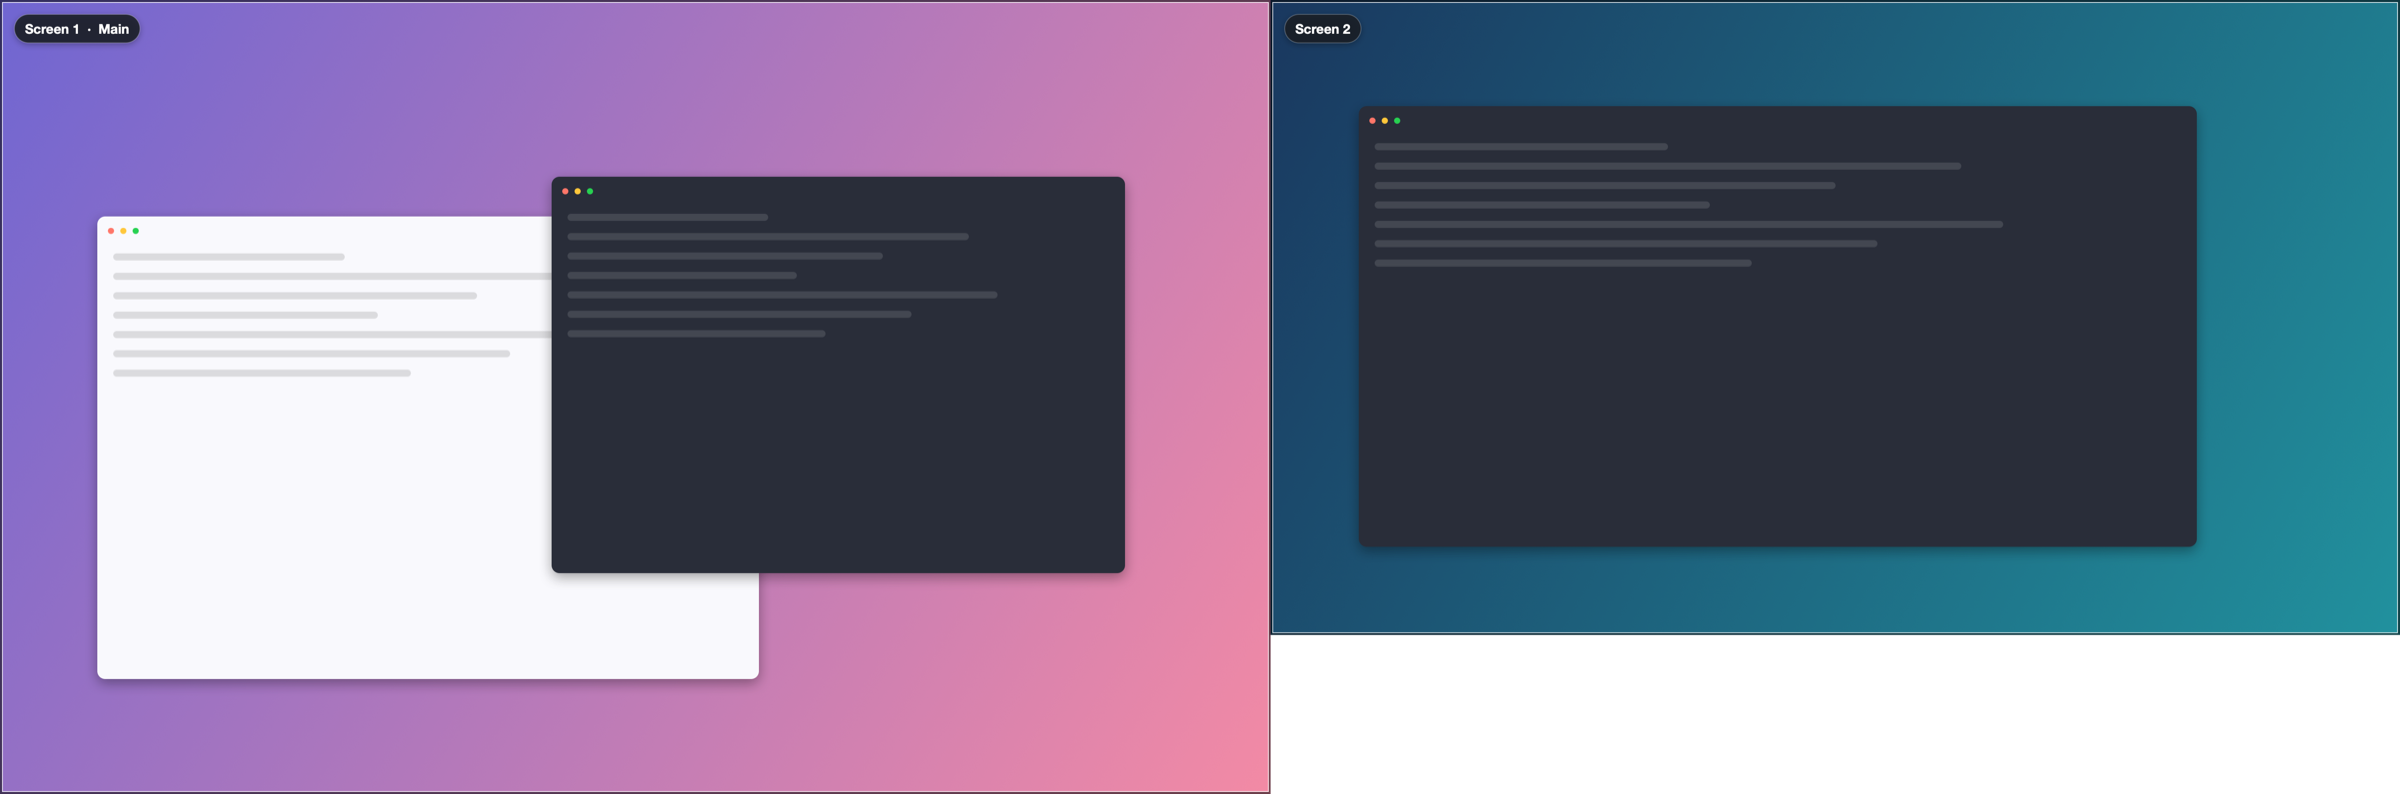
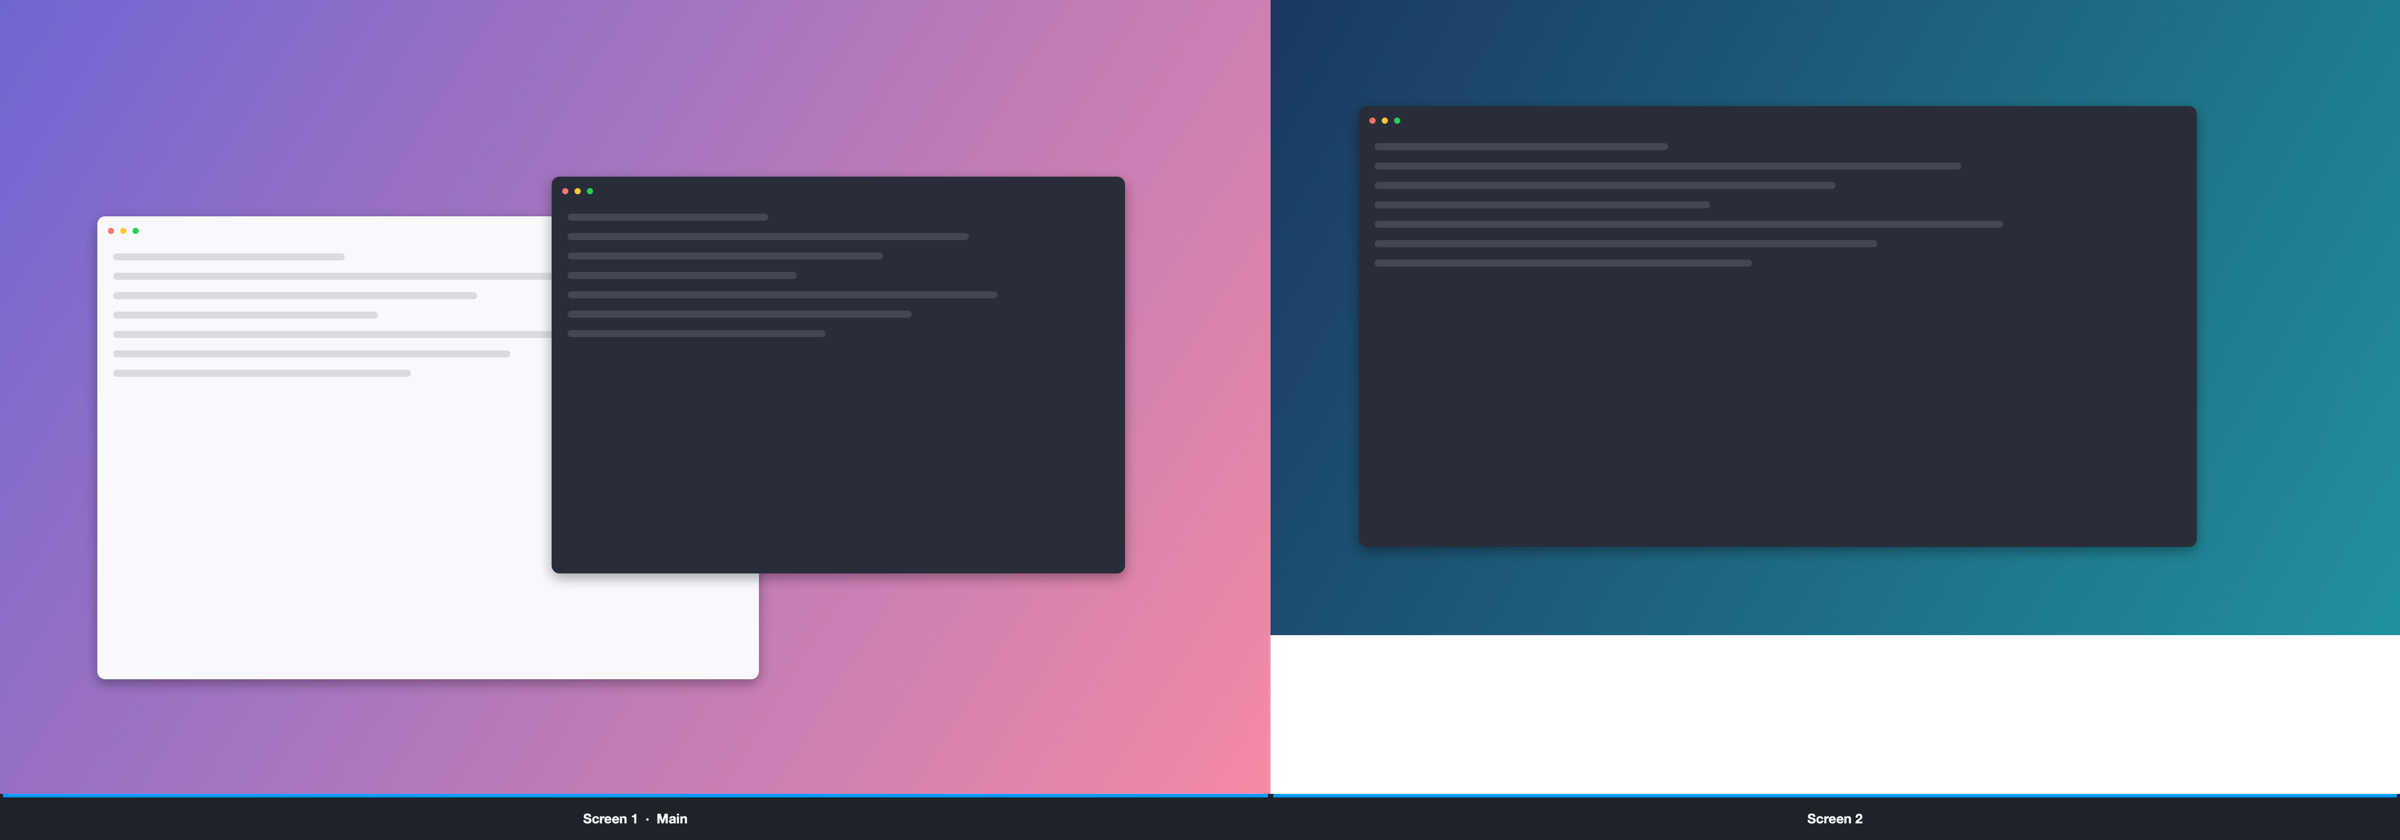
Put multi display labels in a caption strip under the picture instead of on the screenshots

diff --git a/Sources/CaptureEngine/AllDisplaysCaptureMode.swift b/Sources/CaptureEngine/AllDisplaysCaptureMode.swift
@@ -22,8 +22,11 @@ public enum DisplayComposer {
 
         let union = pieces.dropFirst().reduce(first.bounds) { $0.union($1.bounds) }
         let scale = pieces.map(\.image.scale).max() ?? 1
-        let width = Int((union.width * scale).rounded()), height = Int((union.height * scale).rounded())
-        guard width >= 1, height >= 1, width <= 60_000, height <= 60_000 else { return nil }
+        let width = Int((union.width * scale).rounded()), picturesHeight = Int((union.height * scale).rounded())
+        // The labels go in their own strip under the pictures, so no screenshot pixel is covered.
+        let strip = labelled ? Int((captionHeight * scale).rounded()) : 0
+        let height = picturesHeight + strip
+        guard width >= 1, picturesHeight >= 1, width <= 60_000, height <= 60_000 else { return nil }
 
         let space = CGColorSpace(name: CGColorSpace.sRGB)!
         guard let context = CGContext(
@@ -37,9 +40,9 @@ public enum DisplayComposer {
             let x = (piece.bounds.minX - union.minX) * scale
             let top = (piece.bounds.minY - union.minY) * scale
             let w = piece.bounds.width * scale, h = piece.bounds.height * scale
-            context.draw(piece.image.cgImage, in: CGRect(x: x, y: CGFloat(height) - top - h, width: w, height: h))
+            context.draw(piece.image.cgImage, in: CGRect(x: x, y: CGFloat(picturesHeight) - top - h + CGFloat(strip), width: w, height: h))
         }
-        if labelled { drawMarkers(pieces, union: union, scale: scale, height: height, in: context) }
+        if labelled { drawCaptions(pieces, union: union, scale: scale, width: width, strip: strip, in: context) }
         guard let result = context.makeImage() else { return nil }
         return CapturedImage(cgImage: result, scale: scale)
     }
@@ -55,53 +58,44 @@ public enum DisplayComposer {
         return numbers
     }
 
-    /// A thin divider around every display plus a rounded badge ("Screen 1") in its top-left corner.
-    private static func drawMarkers(_ pieces: [Piece], union: CGRect, scale: CGFloat, height: Int, in context: CGContext) {
+    /// Height (points) of the caption strip added under the pictures when displays are labelled.
+    static let captionHeight: CGFloat = 52
+
+    /// The strip under the pictures: a slim accent bar under each display (so you can see which label belongs to which),
+    /// and a "Screen 1" label centred beneath it.
+    private static func drawCaptions(_ pieces: [Piece], union: CGRect, scale: CGFloat, width: Int, strip: Int, in context: CGContext) {
         let numbers = numbering(pieces)
-        for (index, piece) in pieces.enumerated() {
+        let stripRect = CGRect(x: 0, y: 0, width: CGFloat(width), height: CGFloat(strip))
+        context.setFillColor(CGColor(red: 0.09, green: 0.10, blue: 0.12, alpha: 1))
+        context.fill(stripRect)
+
+        let order = pieces.indices.sorted { numbers[$0] < numbers[$1] }
+        var nextFreeX: CGFloat = 0
+        for index in order {
+            let piece = pieces[index]
             let x = (piece.bounds.minX - union.minX) * scale
-            let top = (piece.bounds.minY - union.minY) * scale
-            let w = piece.bounds.width * scale, h = piece.bounds.height * scale
-            let rect = CGRect(x: x, y: CGFloat(height) - top - h, width: w, height: h)
+            let w = piece.bounds.width * scale
 
-            // Divider: a crisp 2pt line just inside the display edge, light with a dark edge so it shows on anything.
-            let line = max(2, 2 * scale)
-            context.saveGState()
-            context.setStrokeColor(CGColor(red: 0, green: 0, blue: 0, alpha: 0.55))
-            context.setLineWidth(line)
-            context.stroke(rect.insetBy(dx: line / 2, dy: line / 2))
-            context.setStrokeColor(CGColor(red: 1, green: 1, blue: 1, alpha: 0.75))
-            context.setLineWidth(line / 2)
-            context.stroke(rect.insetBy(dx: line * 1.25, dy: line * 1.25))
-            context.restoreGState()
+            // Accent bar along the top edge of the strip, exactly as wide as the display above it.
+            let gap = 3 * scale
+            context.setFillColor(CGColor(red: 0.04, green: 0.52, blue: 1, alpha: 1))
+            context.fill(CGRect(x: x + gap, y: CGFloat(strip) - 4 * scale, width: max(w - 2 * gap, 1), height: 4 * scale))
 
-            // Badge
-            let fontSize = 15 * scale
-            let font = CTFontCreateWithName("Helvetica Neue Bold" as CFString, fontSize, nil)
+            let font = CTFontCreateWithName("Helvetica Neue Bold" as CFString, 15 * scale, nil)
             let isMain = piece.bounds.origin == .zero
             let text = "Screen \(numbers[index])" + (isMain ? "  ·  Main" : "")
-            let attributes: [CFString: Any] = [
+            let attributed = CFAttributedStringCreate(nil, text as CFString, [
                 kCTFontAttributeName: font,
-                kCTForegroundColorAttributeName: CGColor(red: 1, green: 1, blue: 1, alpha: 1),
-            ]
-            let attributed = CFAttributedStringCreate(nil, text as CFString, attributes as CFDictionary)!
-            let ctLine = CTLineCreateWithAttributedString(attributed)
-            let bounds = CTLineGetBoundsWithOptions(ctLine, [])
-            let padX = 12 * scale, padY = 7 * scale, margin = 16 * scale
-            let badge = CGRect(x: rect.minX + margin, y: rect.maxY - margin - (bounds.height + padY * 2),
-                               width: bounds.width + padX * 2, height: bounds.height + padY * 2)
-            context.saveGState()
-            let path = CGPath(roundedRect: badge, cornerWidth: badge.height / 2, cornerHeight: badge.height / 2, transform: nil)
-            context.setShadow(offset: CGSize(width: 0, height: -2 * scale), blur: 8 * scale, color: CGColor(gray: 0, alpha: 0.35))
-            context.setFillColor(CGColor(red: 0.08, green: 0.09, blue: 0.11, alpha: 0.88))
-            context.addPath(path); context.fillPath()
-            context.restoreGState()
-            context.saveGState()
-            context.setStrokeColor(CGColor(gray: 1, alpha: 0.25)); context.setLineWidth(scale)
-            context.addPath(path); context.strokePath()
-            context.textPosition = CGPoint(x: badge.minX + padX - bounds.minX, y: badge.minY + padY - bounds.minY)
-            CTLineDraw(ctLine, context)
-            context.restoreGState()
+                kCTForegroundColorAttributeName: CGColor(gray: 1, alpha: 0.95),
+            ] as CFDictionary)!
+            let line = CTLineCreateWithAttributedString(attributed)
+            let bounds = CTLineGetBoundsWithOptions(line, [])
+            var left = x + (w - bounds.width) / 2
+            left = max(left, nextFreeX)                         // keep labels of stacked displays apart
+            nextFreeX = left + bounds.width + 24 * scale
+            let baseline = (CGFloat(strip) - 4 * scale - bounds.height) / 2 - bounds.minY
+            context.textPosition = CGPoint(x: left - bounds.minX, y: baseline)
+            CTLineDraw(line, context)
         }
     }
 }

diff --git a/Tests/CaptureEngineTests/AllDisplaysTests.swift b/Tests/CaptureEngineTests/AllDisplaysTests.swift
@@ -90,7 +90,13 @@ struct AllDisplaysModeTests {
         #expect(DisplayComposer.numbering([right, left]) == [2, 1])
         let plain = try #require(DisplayComposer.compose([left, right]))
         let marked = try #require(DisplayComposer.compose([left, right], labelled: true))
-        #expect(plain.cgImage.width == marked.cgImage.width && plain.cgImage.height == marked.cgImage.height)
-        #expect(plain.cgImage.dataProvider?.data != marked.cgImage.dataProvider?.data)
+        // The labels live in a strip added below; the screenshots themselves are untouched.
+        let strip = Int(DisplayComposer.captionHeight * 2)
+        #expect(marked.cgImage.width == plain.cgImage.width && marked.cgImage.height == plain.cgImage.height + strip)
+        let pictureRows = plain.cgImage.height
+        for (x, y) in [(2, 2), (50, 30), (199, 10), (201, 10), (400, 30), (518, 2), (100, 150), (300, pictureRows - 1)] {
+            #expect(rgba(marked.cgImage, x, y) == rgba(plain.cgImage, x, y))
+        }
+        #expect(rgba(marked.cgImage, 5, pictureRows + 4)[3] == 255)       // the strip is opaque
     }
 }

diff --git a/Sources/CaptureDeck/AppSettings.swift b/Sources/CaptureDeck/AppSettings.swift
@@ -97,7 +97,7 @@ enum AppSettings {
             .init(id: SettingID.includeCursor, section: .capture, group: "Pointer and timing", title: "Include the mouse pointer",
                   defaultValue: .bool(false), control: .toggle, order: 0),
             .init(id: SettingID.labelDisplays, section: .capture, group: "Multiple displays", title: "Label each display in All Displays captures",
-                  help: "Adds a divider and a \"Screen 1\", \"Screen 2\" badge to each display so you can tell them apart. Turn off for a clean picture.",
+                  help: "Adds a strip under the picture with \"Screen 1\", \"Screen 2\" labels, one under each display. The screenshots themselves are not touched. Turn off for no strip.",
                   defaultValue: .bool(true), control: .toggle, order: 0),
             .init(id: SettingID.closeEditorAfterCopy, section: .capture, group: "Editor", title: "Close the editor after copying",
                   help: "Clicking Copy in the editor puts the image on the clipboard and closes the editor window.",

diff --git a/README.md b/README.md
@@ -43,10 +43,10 @@ I started CaptureDeck as a weekend project because I kept opening a second app e
 
 ## Two small things I like
 
-**Multi display captures label themselves.** Grab all your screens at once and each one gets a divider and a "Screen 1", "Screen 2" badge, so nobody has to guess which monitor is which. It is a setting, in case you want a clean picture.
+**Multi display captures label themselves.** Grab all your screens at once and a caption strip is added under the picture with a "Screen 1", "Screen 2" label under each display, so nobody has to guess which monitor is which. The screenshots themselves are never drawn on, and it is a setting if you want no strip.
 
 <p align="center">
-  <img src="docs/images/displays.png" alt="Two displays captured together, each with a Screen badge" width="860">
+  <img src="docs/images/displays.png" alt="Two displays captured together with a caption strip underneath" width="860">
 </p>
 
 **Quick crop.** A new capture opens with everything selected. Drag any edge inward and it crops when you let go. Undo brings it back.
